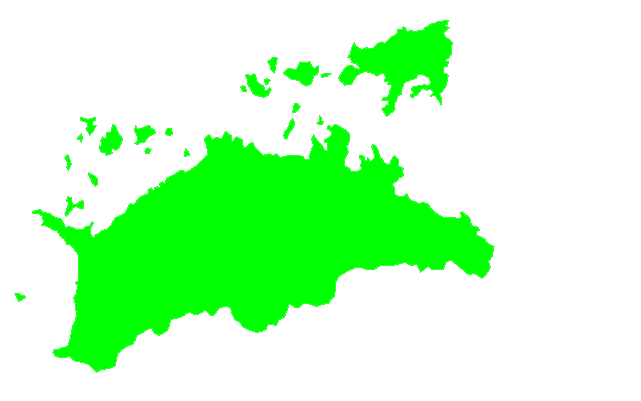
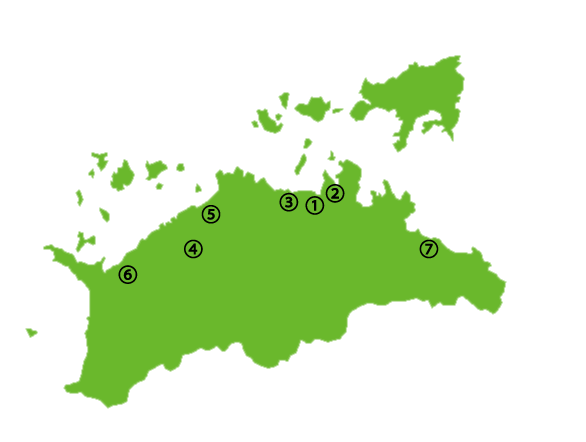
jQuery
jQuery苦戦です

diff --git a/main.html b/main.html
@@ -3,28 +3,78 @@
 <head>
     <meta charset="UTF-8">
     <title>MAP</title>
+    <link rel="stylesheet" href="css/style.css">
+    <link rel="stylesheet" href="js/jquery-1.11.3.min.js">
+    <link rel="stylesheet" href="js/udon.js">
 </head>
 <body>
-   <link rel="stylesheet" href="css/style.css">
+<div class="wrap">
     <div class="col-hero"></div>
+<!--
     <div class="title">
     
     </div>
+-->
     <div class="map">
-        <img src="images/map.png" alt=""> </div>
+        <img src="images/map.png" alt="">
+        </div>
         
         <div class="sidebar">
-        <p>①上原屋本店</p>
-        <p>②わら家</p>
-        <p>③うどん番長</p>
-        <p>④麦香</p>
-        <p>⑤日の出製麺所</p>
-        <p>⑥三好うどん</p>
-        <p>⑦うどんや　まるちゃん</p>
+<nav>
+    <ul id="mainMenu">
+        <li>
+            <a href="#">①上原屋本店</a>
+            <div class="subMenu">
+<!--                ここに内容-->
+           <img src="images/button.png" alt="">
+           <p>uuuu</p>
+            </div>
+        </li>
+        <li>
+            <a href="#">②わら家</a>
+            <div class="subMenu">
+               
+            </div>   
+        </li>
+        <li>
+            <a href="#">③うどん番長</a>
+            <dis class="subMenu">
+                
+            </dis>
+        </li>
+        <li>
+            <a href="#">④麦屋</a>
+            <dis class="subMenu">
+                
+            </dis>
+        </li>
+        <li>
+            <a href="#">⑤日の出製麺所</a>
+            <dis class="subMenu">
+                
+            </dis>
+        </li>
+        <li>
+            <a href="#">⑥三好うどん</a>
+            <div class="subMenu">
+                
+            </div>
+            
+            </li>
+    <li>
+            <a href="#">⑦うどんや　まるちゃん</a>
+            <div class="subMenu">
+                
+            </div>
+            
+            </li>
+    </ul>
+</nav>
+        
     </div>
        <div class="access">
         <p>お車の場合、大阪から高速道路で約2時間30分</p>
-        <p>鉄道の場合、新幹線を使って約2時間</p>
+        <p>鉄道の場合、大阪から新幹線を使って約2時間</p>
            <p>その他詳しい情報はこちら→http://www.my-kagawa.jp/access/dep03.php</p>
     </div>
    

diff --git a/css/style.css b/css/style.css
@@ -4,17 +4,21 @@
 }
 
 body{
-    width: 900px;
-    height: 600px;
+    
+/*    height: 600px;*/
+}
+.wrap{
+    width: 100%;
 }
 /*トップページ*/
 #slideshow {
    position: relative;
-   width:  1007px;
+   width:  100%;
    height: 600px;
 }
 
 #slideshow img {
+    width: 100%;
    position: absolute;
    top: 0;
    left:0;
@@ -42,22 +46,31 @@ body{
     border-color: black;
 }
 
+.hover:hover{
+    opacity: 0.8;
+}
+
+
 /*マップ*/
+/*
 .title {
     margin-left: 5px;
 }
+*/
 
+/*
 .title h1{
     padding-left: 10px; 
     font-weight: 100;
 }
+*/
 .col-hero{
-    width: 900px;
+    width: 100%;
     height: 600px;
     background-image: url(../images/hero.png);
     background-position: center center;
     background-size: cover;
-    margin-left: 5px;
+    background-attachment: fixed;
 }
 
 .map{
@@ -67,41 +80,87 @@ body{
     margin-top: 5px;
 }
 
+.map img{
+    height: 
+}
+
 .sidebar{
     float: right;
     width: 295px;
     height: 455px;
-    margin-top: 5px;
+    margin-top: 10px;
+    margin-right: 10px;
     background-image: url(../images/menu.png);
     border-radius: 2em;
 }
 
+/*
 .sidebar h1{
     font-weight: 100;
     margin-left: 10px;
 }
+*/
 
 .sidebar p{
     margin-left: 5px;
     margin: 10px;
     font-size: 25px;
+    color: #FFF5EE ;
+    font-family:　
+        "ヒラギノ明朝 ProN W6",
+        "HiraMinProN-W6",
+        "HG明朝E",
+        serif;
 }
 
+nav li{
+    list-style-type: none;
+    margin-left: 5px;
+    margin: 10px;
+}
+
+nav a{
+    text-decoration: none;
+    font-size: 25px;
+    color: #FFF5EE ;
+    font-family:　
+        "ヒラギノ明朝 ProN W6",
+        "HiraMinProN-W6",
+        "HG明朝E",
+        serif;
+
+}
 
 .access{
     margin-left: 5px;
+    margin-bottom: 10px;
     float: left;
     margin-top: 5px;
     width: 595px;
     background-image: url(../images/access.png);
-    border-radius: 2em;
+    border-radius: 1em;
 }
 
+/*
 .access h1{
     font-weight: 100;
     margin-left: 9px;
 }
+*/
 
 .access p{
     margin-left: 10px;
+    color: #FAEBD7;
 }
+
+
+/*
+
+.shop{
+    width: 100%;    
+}
+
+.shop img{
+    width: 900px;
+}
+*/

diff --git a/index.html b/index.html
@@ -5,9 +5,10 @@
     <title>Go!Go!KAGAWA!</title>
     <script src="js/jquery-1.11.3.min.js"></script>
     <script src="js/udon.js"></script>
+    <link rel="stylesheet" href="css/style.css">
 </head>
 <body>
-    <link rel="stylesheet" href="css/style.css">
+    <div class="wrap">
     <div class="main">
     <p id="slideshow">
         <img src="images/top1.png" alt="" class="active">
@@ -16,9 +17,10 @@
         <img src="images/top4.png" alt="">
     </p>
         <div id="start">
-        <a href="main.html"><img src="images/button.png" alt=""></a>
+        <a href="main.html"><img src="images/button.png" alt="" class="hover"></a>
         
         </div>
         </div>
+</div>
 </body>
 </html>

diff --git a/shop1.html b/shop1.html
@@ -1,0 +1,13 @@
+<!DOCTYPE html>
+<html lang="ja">
+<head>
+    <meta charset="UTF-8">
+    <title>上原屋本店</title>
+    <link rel="stylesheet" href="css/style.css">
+</head>
+<body>
+    <div class="shop">
+    <img src="images/shop.jpg" alt="">
+    </div>
+</body>
+</html>

diff --git a/js/udon.js b/js/udon.js
@@ -18,3 +18,9 @@ function slideSwitch() {
 $(function() {
    setInterval( "slideSwitch()", 3000 );
 });
+
+$(function() {
+$("#mainMenu > li > a").on("click", function(){
+     $(this).next('.subMenu').toggle("fast");
+ });
+});
